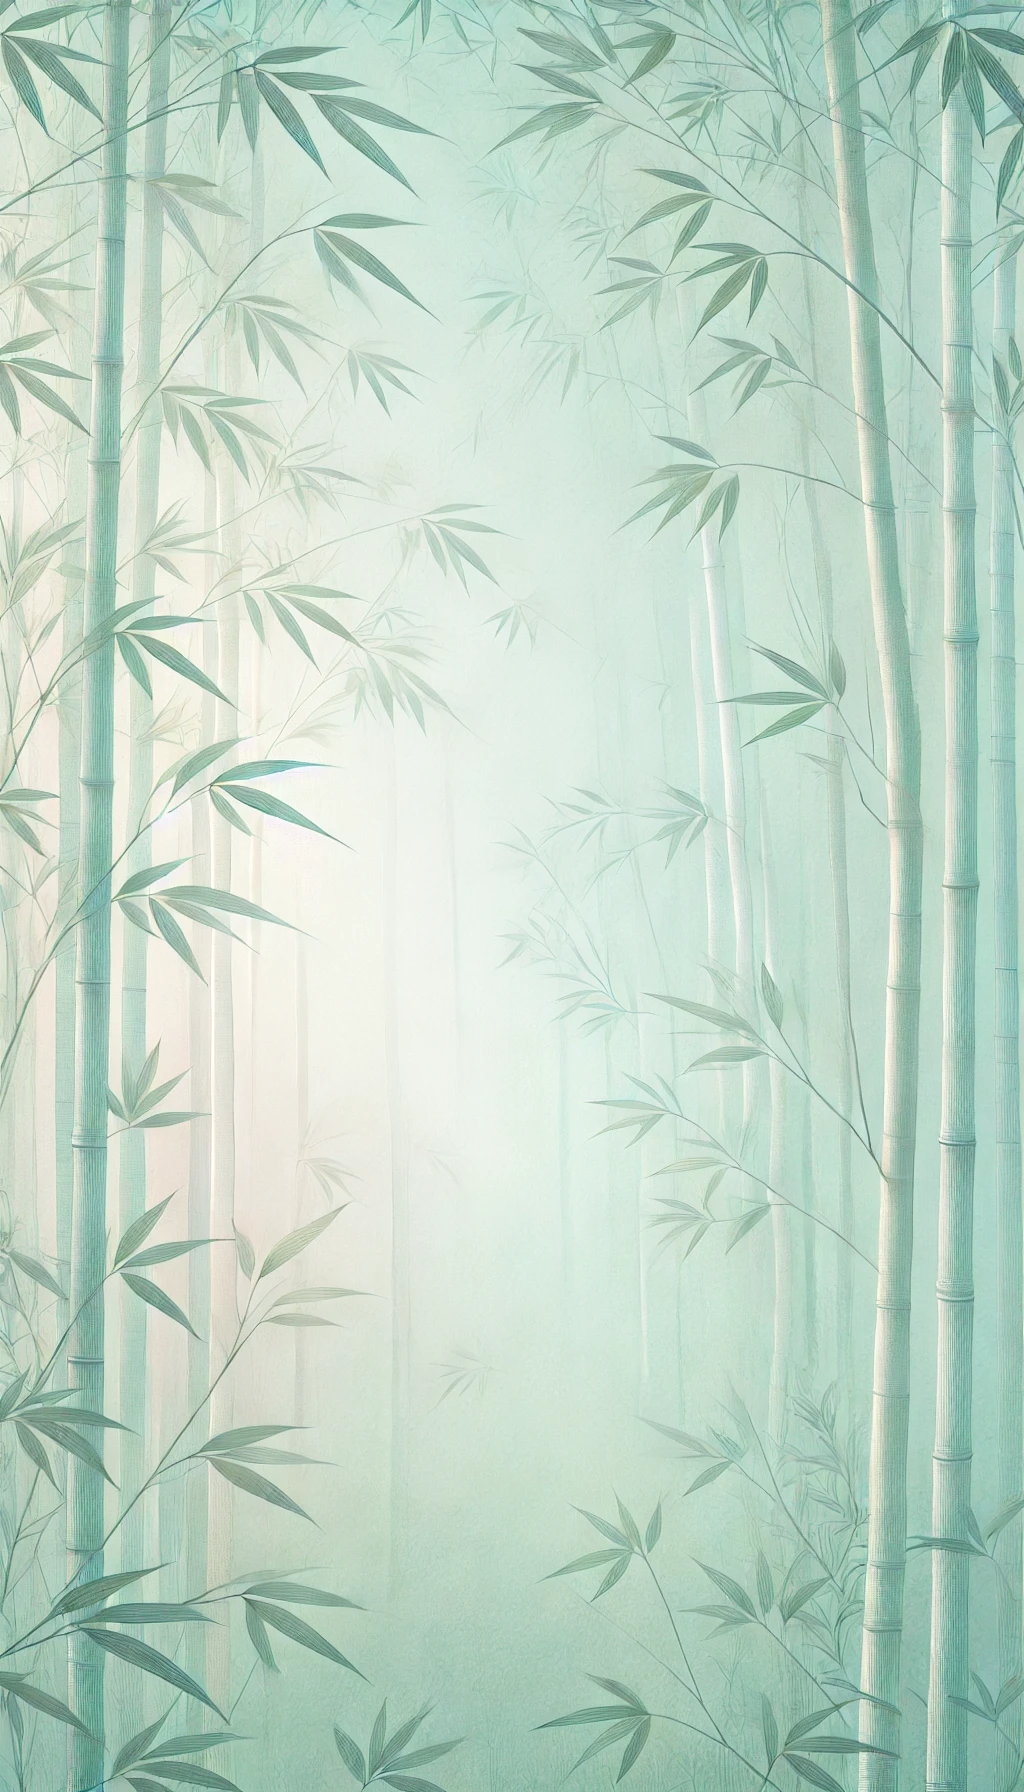
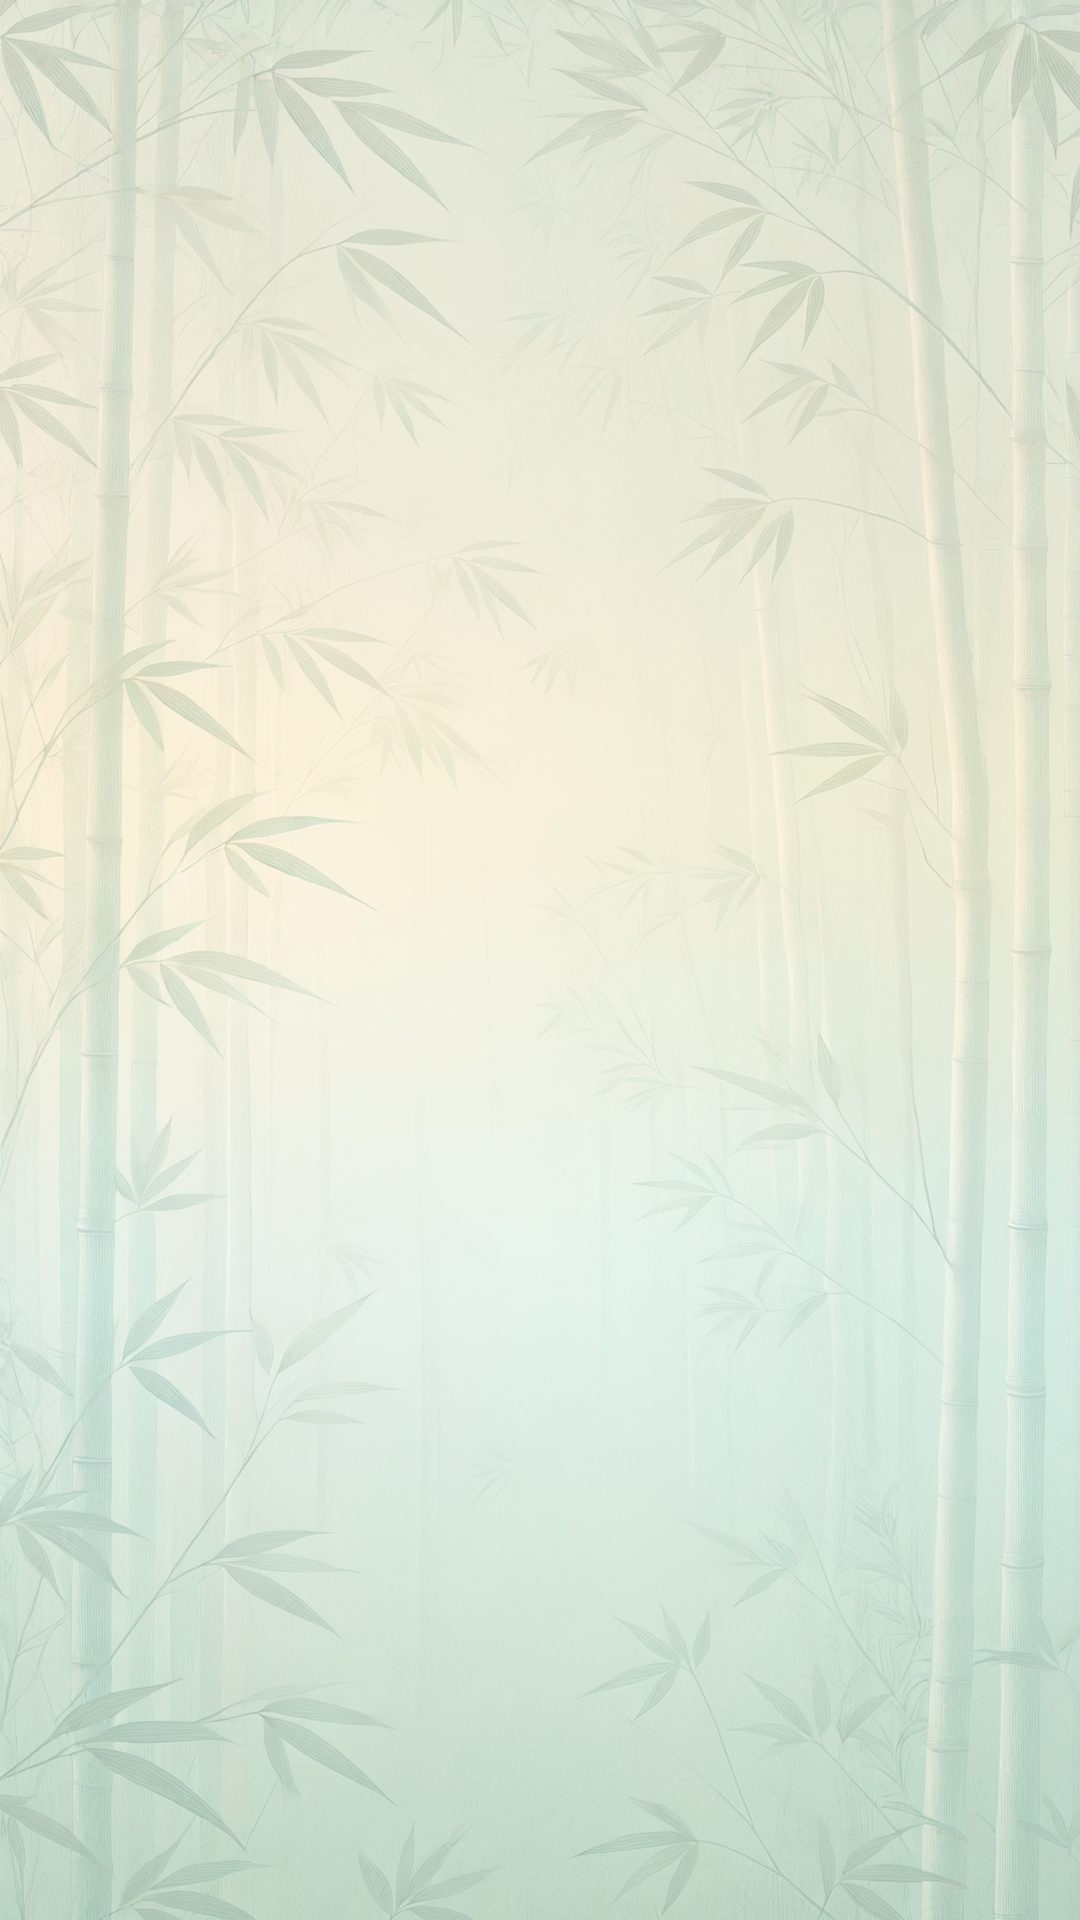
배경 수정

diff --git a/my-app/app/(tabs)/report.tsx b/my-app/app/(tabs)/report.tsx
@@ -1,5 +1,5 @@
 import React, {useState} from 'react';
-import {View, Text, StyleSheet, Dimensions, Pressable, Modal, ScrollView} from 'react-native';
+import {View, Text, StyleSheet, Dimensions, Pressable, Modal, ScrollView, ImageBackground} from 'react-native';
 import {VictoryChart, VictoryBar, VictoryAxis, VictoryTheme} from 'victory-native';
 
 const screenWidth = Dimensions.get("window").width;
@@ -46,93 +46,95 @@ export default function EmotionReport() {
 
     return (
         <ScrollView style={styles.scrollView}>
-            <View style={styles.container}>
-                <View style={styles.header}>
-                    <Text style={styles.title}>철수님의 감정상태</Text>
-                    <Pressable style={styles.dropdownTrigger} onPress={() => setModalVisible(true)}>
-                        <Text style={styles.selectedValue}>{value}월 ▼</Text>
-                    </Pressable>
-                </View>
+            <ImageBackground source={require('../../assets/images/reportbg.png')} style={styles.backgroundImage}>
+                <View style={styles.container}>
+                    <View style={styles.header}>
+                        <Text style={styles.title}>철수님의 감정상태</Text>
+                        <Pressable style={styles.dropdownTrigger} onPress={() => setModalVisible(true)}>
+                            <Text style={styles.selectedValue}>{value}월 ▼</Text>
+                        </Pressable>
+                    </View>
 
-                <Modal visible={modalVisible} transparent animationType="fade">
-                    <View style={styles.modalContainer}>
-                        <View style={styles.modalContent}>
-                            {monthItems.map((item) => (
-                                <Pressable
-                                    key={item.value}
-                                    onPress={() => {
-                                        setValue(item.value);
-                                        setModalVisible(false);
-                                    }}
-                                    style={styles.modalItem}
-                                >
-                                    <Text>{item.label}</Text>
-                                </Pressable>
-                            ))}
+                    <Modal visible={modalVisible} transparent animationType="fade">
+                        <View style={styles.modalContainer}>
+                            <View style={styles.modalContent}>
+                                {monthItems.map((item) => (
+                                    <Pressable
+                                        key={item.value}
+                                        onPress={() => {
+                                            setValue(item.value);
+                                            setModalVisible(false);
+                                        }}
+                                        style={styles.modalItem}
+                                    >
+                                        <Text>{item.label}</Text>
+                                    </Pressable>
+                                ))}
+                            </View>
+                        </View>
+                    </Modal>
+
+                    {/* Chart and Subtitle Container */}
+                    <View style={styles.chartContainer}>
+                        <VictoryChart
+                            theme={VictoryTheme.material}
+                            width={screenWidth}
+                            domainPadding={25}
+                            padding={{left: 28, right: 40, top: 5, bottom: 60}}
+                        >
+                            <VictoryAxis
+                                style={{
+                                    axis: {stroke: "#322C2B"},
+                                    tickLabels: {fontSize: 14, fill: "#000000", fontWeight: 500},
+                                    grid: {stroke: "#686D76", strokeWidth: 0.5},
+                                }}
+                            />
+                            <VictoryAxis
+                                dependentAxis
+                                style={{
+                                    axis: {stroke: "#322C2B"},
+                                    tickLabels: {fontSize: 12, fill: "#000000"},
+                                    grid: {stroke: "#686D76", strokeWidth: 0.5},
+                                }}
+                            />
+                            <VictoryBar
+                                data={data}
+                                x="x"
+                                y="y"
+                                cornerRadius={6}
+                                style={{
+                                    data: {
+                                        fill: ({datum}) => datum.fill || '#000000',
+                                        width: 25,
+                                    },
+                                }}
+                            />
+                        </VictoryChart>
+
+                        <Text style={styles.subtitle}>많이 사용한 단어</Text>
+                    </View>
+
+                    <View style={styles.wordContainer}>
+                        <View style={[styles.wordBox, {backgroundColor: wordBoxColors["슬픔"]}]}>
+                            <Text style={styles.wordText}>슬픔</Text>
+                            <Text style={styles.wordCount}>370번</Text>
+                        </View>
+                        <View style={[styles.wordBox, {backgroundColor: wordBoxColors["화남"]}]}>
+                            <Text style={styles.wordText}>화남</Text>
+                            <Text style={styles.wordCount}>280번</Text>
                         </View>
                     </View>
-                </Modal>
 
-                {/* Chart and Subtitle Container */}
-                <View style={styles.chartContainer}>
-                    <VictoryChart
-                        theme={VictoryTheme.material}
-                        width={screenWidth}
-                        domainPadding={25}
-                        padding={{left: 28, right: 40, top: 5, bottom: 60}}
-                    >
-                        <VictoryAxis
-                            style={{
-                                axis: {stroke: "#322C2B"},
-                                tickLabels: {fontSize: 14, fill: "#000000",fontWeight:500},
-                                grid: {stroke: "#686D76", strokeWidth: 0.5}
-                            }}
-                        />
-                        <VictoryAxis
-                            dependentAxis
-                            style={{
-                                axis: {stroke: "#322C2B"},
-                                tickLabels: {fontSize: 12, fill: "#000000"},
-                                grid: {stroke: "#686D76", strokeWidth: 0.5}
-                            }}
-                        />
-                        <VictoryBar
-                            data={data}
-                            x="x"
-                            y="y"
-                            cornerRadius={6}
-                            style={{
-                                data: {
-                                    fill: ({datum}) => datum.fill || '#000000',
-                                    width: 25,
-                                }
-                            }}
-                        />
-                    </VictoryChart>
-
-                    <Text style={styles.subtitle}>많이 사용한 단어</Text>
-                </View>
-
-                <View style={styles.wordContainer}>
-                    <View style={[styles.wordBox, {backgroundColor: wordBoxColors["슬픔"]}]}>
-                        <Text style={styles.wordText}>슬픔</Text>
-                        <Text style={styles.wordCount}>370번</Text>
-                    </View>
-                    <View style={[styles.wordBox, {backgroundColor: wordBoxColors["화남"]}]}>
-                        <Text style={styles.wordText}>화남</Text>
-                        <Text style={styles.wordCount}>280번</Text>
+                    <View style={styles.letterBox}>
+                        <Text style={styles.letterTitle}>
+                            <Text style={styles.nameText}>철수</Text>의 편지
+                        </Text>
+                        <Text style={styles.letterText}>
+                            편지를 써보자 나는 밤부야 너는 누구니? 나는 아직 감정이 없어...
+                        </Text>
                     </View>
                 </View>
-
-                <View style={styles.letterBox}>
-                    <Text style={styles.letterTitle}>
-                        <Text style={styles.nameText}>철수</Text>의 편지
-                    </Text>
-                    <Text style={styles.letterText}>
-                        편지를 써보자 나는 밤부야 너는 누구니? 나는 아직 감정이 없어...
-                    </Text>
-                </View>
-            </View>
+            </ImageBackground>
         </ScrollView>
     );
 }
@@ -251,9 +253,17 @@ const styles = StyleSheet.create({
         color: '#347928',
         alignSelf: 'flex-start',
     },
+    container: {
+        flex: 1,
+        padding: 15,
+    },
     scrollView: {
         flex: 1,
         backgroundColor: '#FFFFFF',
 
+    },
+    backgroundImage: {
+        flex: 1,
+        resizeMode: 'cover',  // Make sure the image covers the entire area
     },
 });

diff --git a/my-app/app/(tabs)/index.tsx b/my-app/app/(tabs)/index.tsx
@@ -1,5 +1,5 @@
 import React, { useState } from 'react';
-import { View, Text, TextInput, TouchableOpacity, ScrollView, StyleSheet } from 'react-native';
+import { View, Text, TextInput, TouchableOpacity, ScrollView, StyleSheet, ImageBackground } from 'react-native';
 import axios from 'axios';
 import Ionicons from 'react-native-vector-icons/Ionicons';
 
@@ -33,30 +33,32 @@ export default function ChatbotPage() {
 
     return (
         <View style={styles.container}>
-            <ScrollView style={styles.chatArea}>
-                {messages.map((msg, index) => (
-                    <View
-                        key={index}
-                        style={[
-                            styles.message,
-                            msg.sender === 'user' ? styles.userMessage : styles.botMessage,
-                        ]}
-                    >
-                        <Text style={styles.messageText}>{msg.text}</Text>
-                    </View>
-                ))}
-            </ScrollView>
-            <View style={styles.inputArea}>
-                <TextInput
-                    style={styles.input}
-                    value={input}
-                    onChangeText={setInput}
-                    placeholder="이야기 입력하기.."
-                />
-                <TouchableOpacity onPress={sendMessage} style={styles.iconButton}>
-                    <Ionicons name="volume-high" size={24} color="#fff" />
-                </TouchableOpacity>
-            </View>
+            <ImageBackground source={require('../../assets/images/reportbg.png')} style={styles.backgroundImage}>
+                <ScrollView style={styles.chatArea}>
+                    {messages.map((msg, index) => (
+                        <View
+                            key={index}
+                            style={[
+                                styles.message,
+                                msg.sender === 'user' ? styles.userMessage : styles.botMessage,
+                            ]}
+                        >
+                            <Text style={styles.messageText}>{msg.text}</Text>
+                        </View>
+                    ))}
+                </ScrollView>
+                <View style={styles.inputArea}>
+                    <TextInput
+                        style={styles.input}
+                        value={input}
+                        onChangeText={setInput}
+                        placeholder="이야기 입력하기.."
+                    />
+                    <TouchableOpacity onPress={sendMessage} style={styles.iconButton}>
+                        <Ionicons name="volume-high" size={24} color="#fff" />
+                    </TouchableOpacity>
+                </View>
+            </ImageBackground>
         </View>
     );
 }
